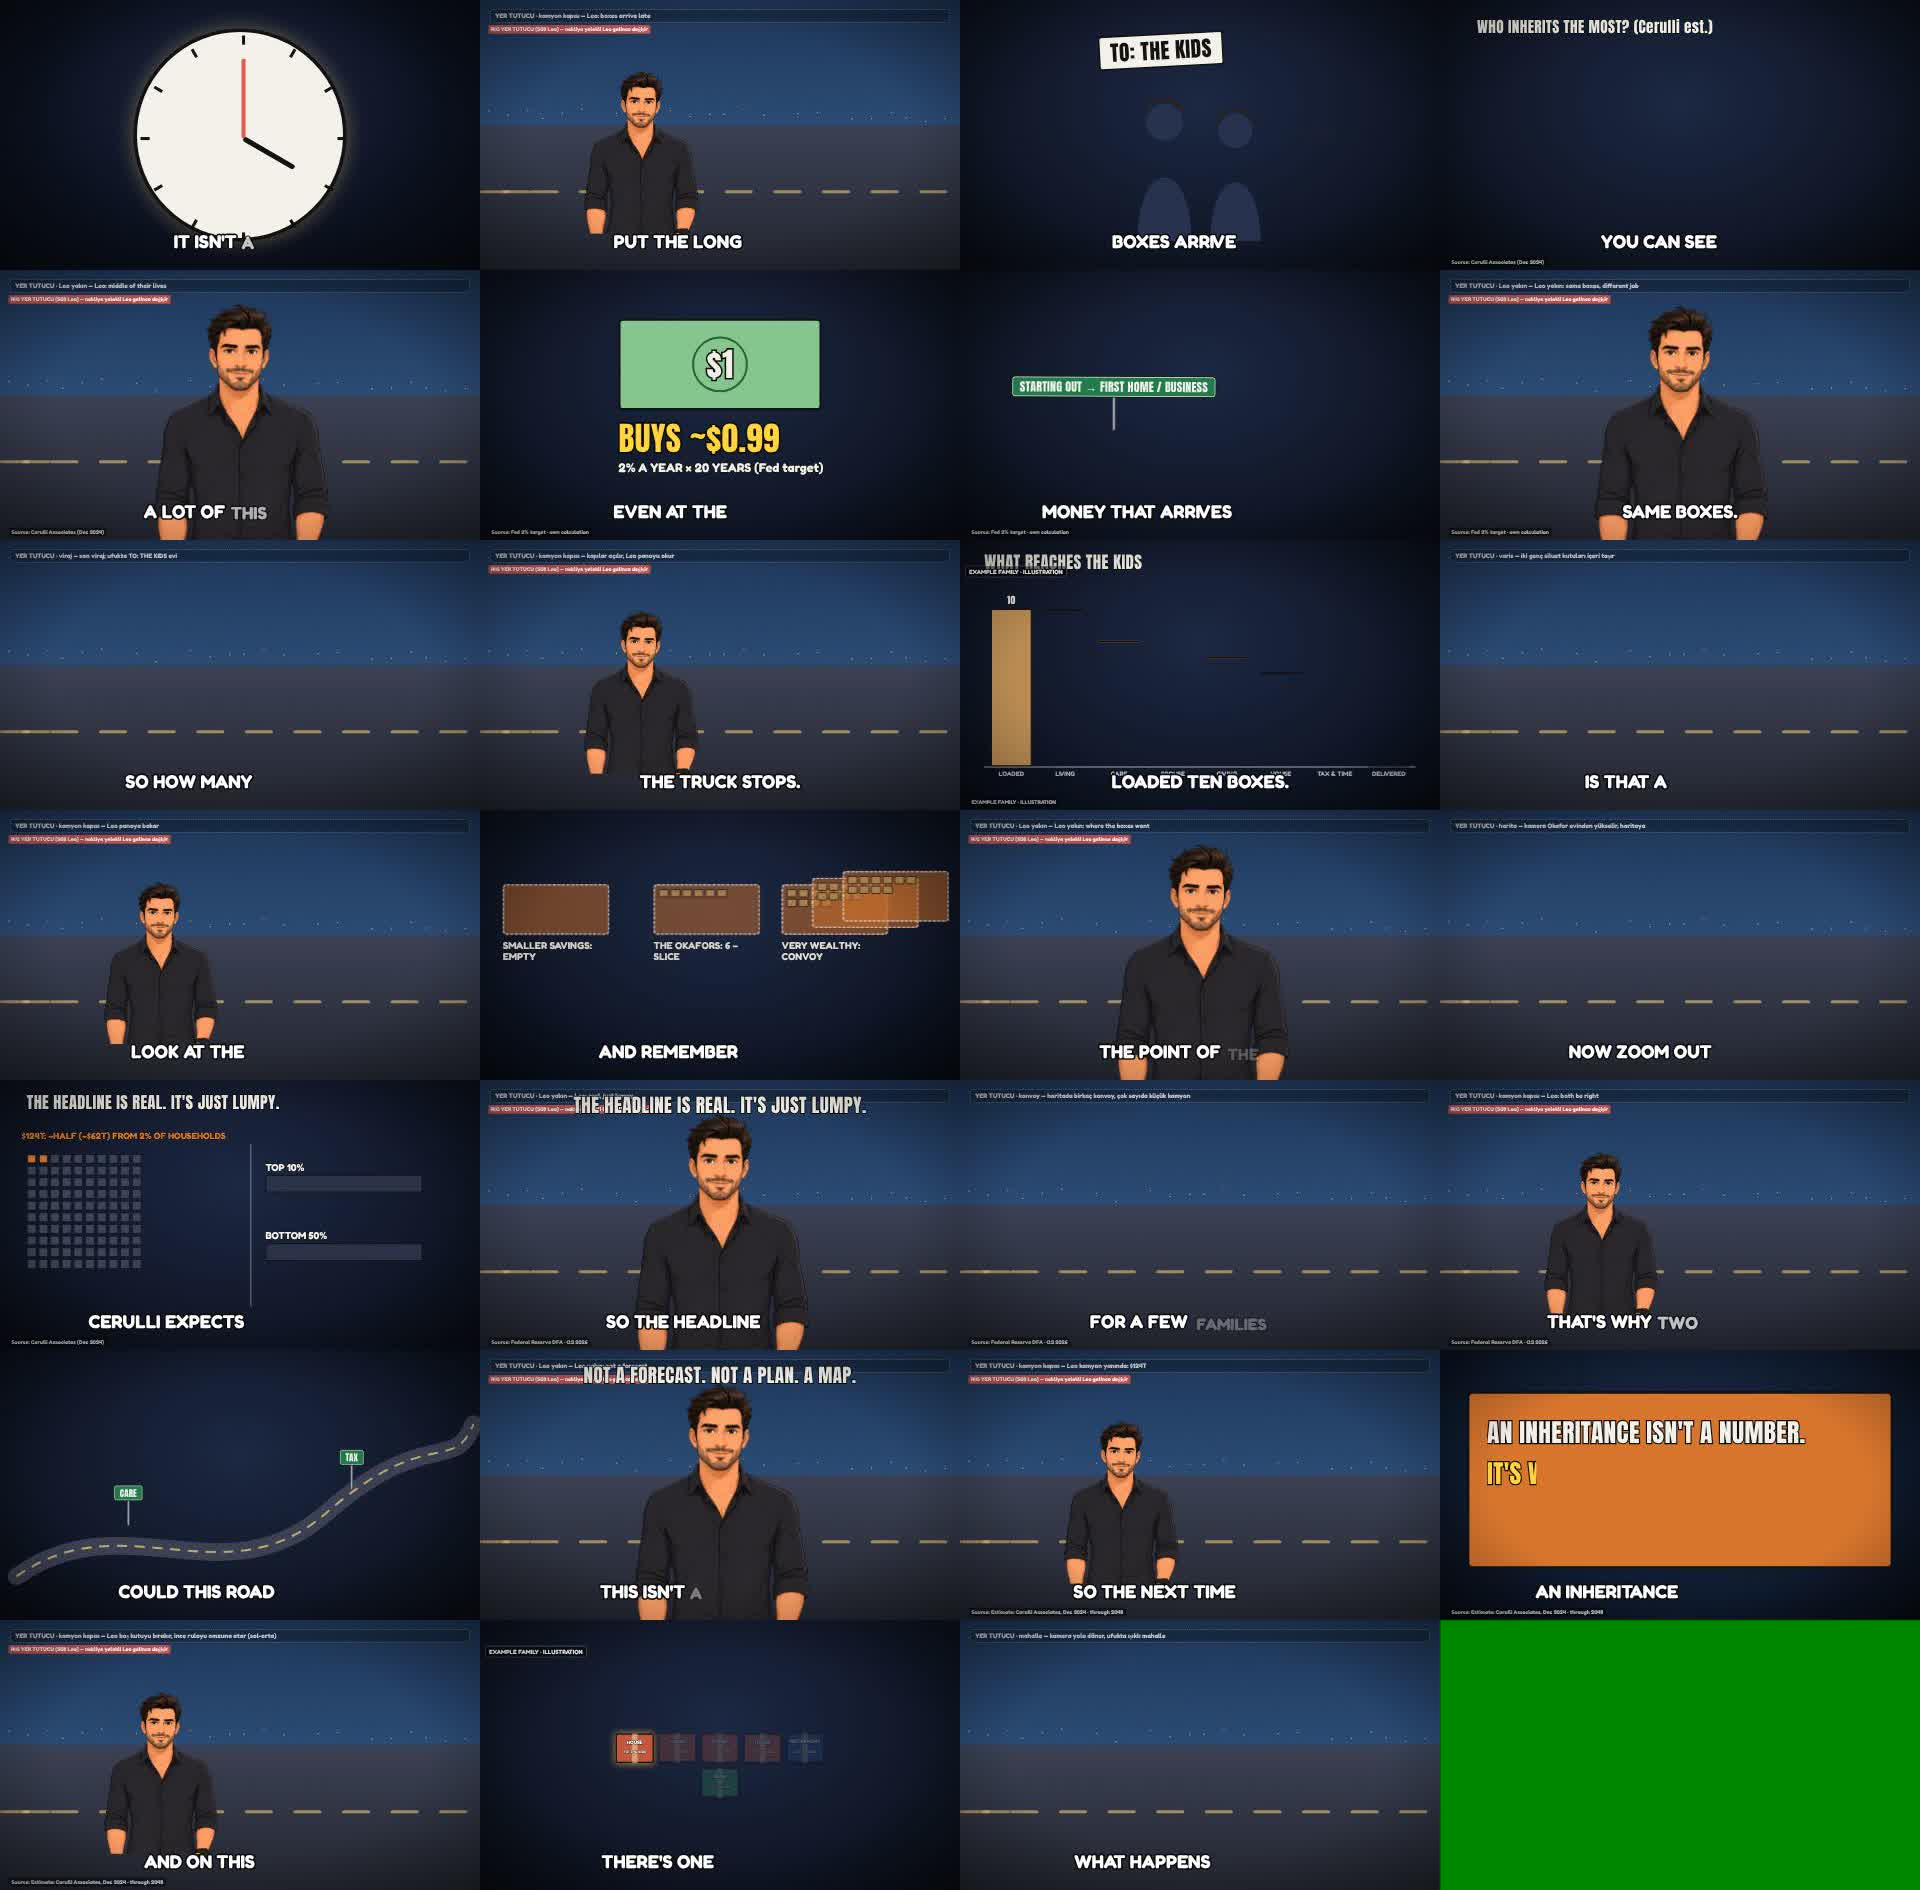
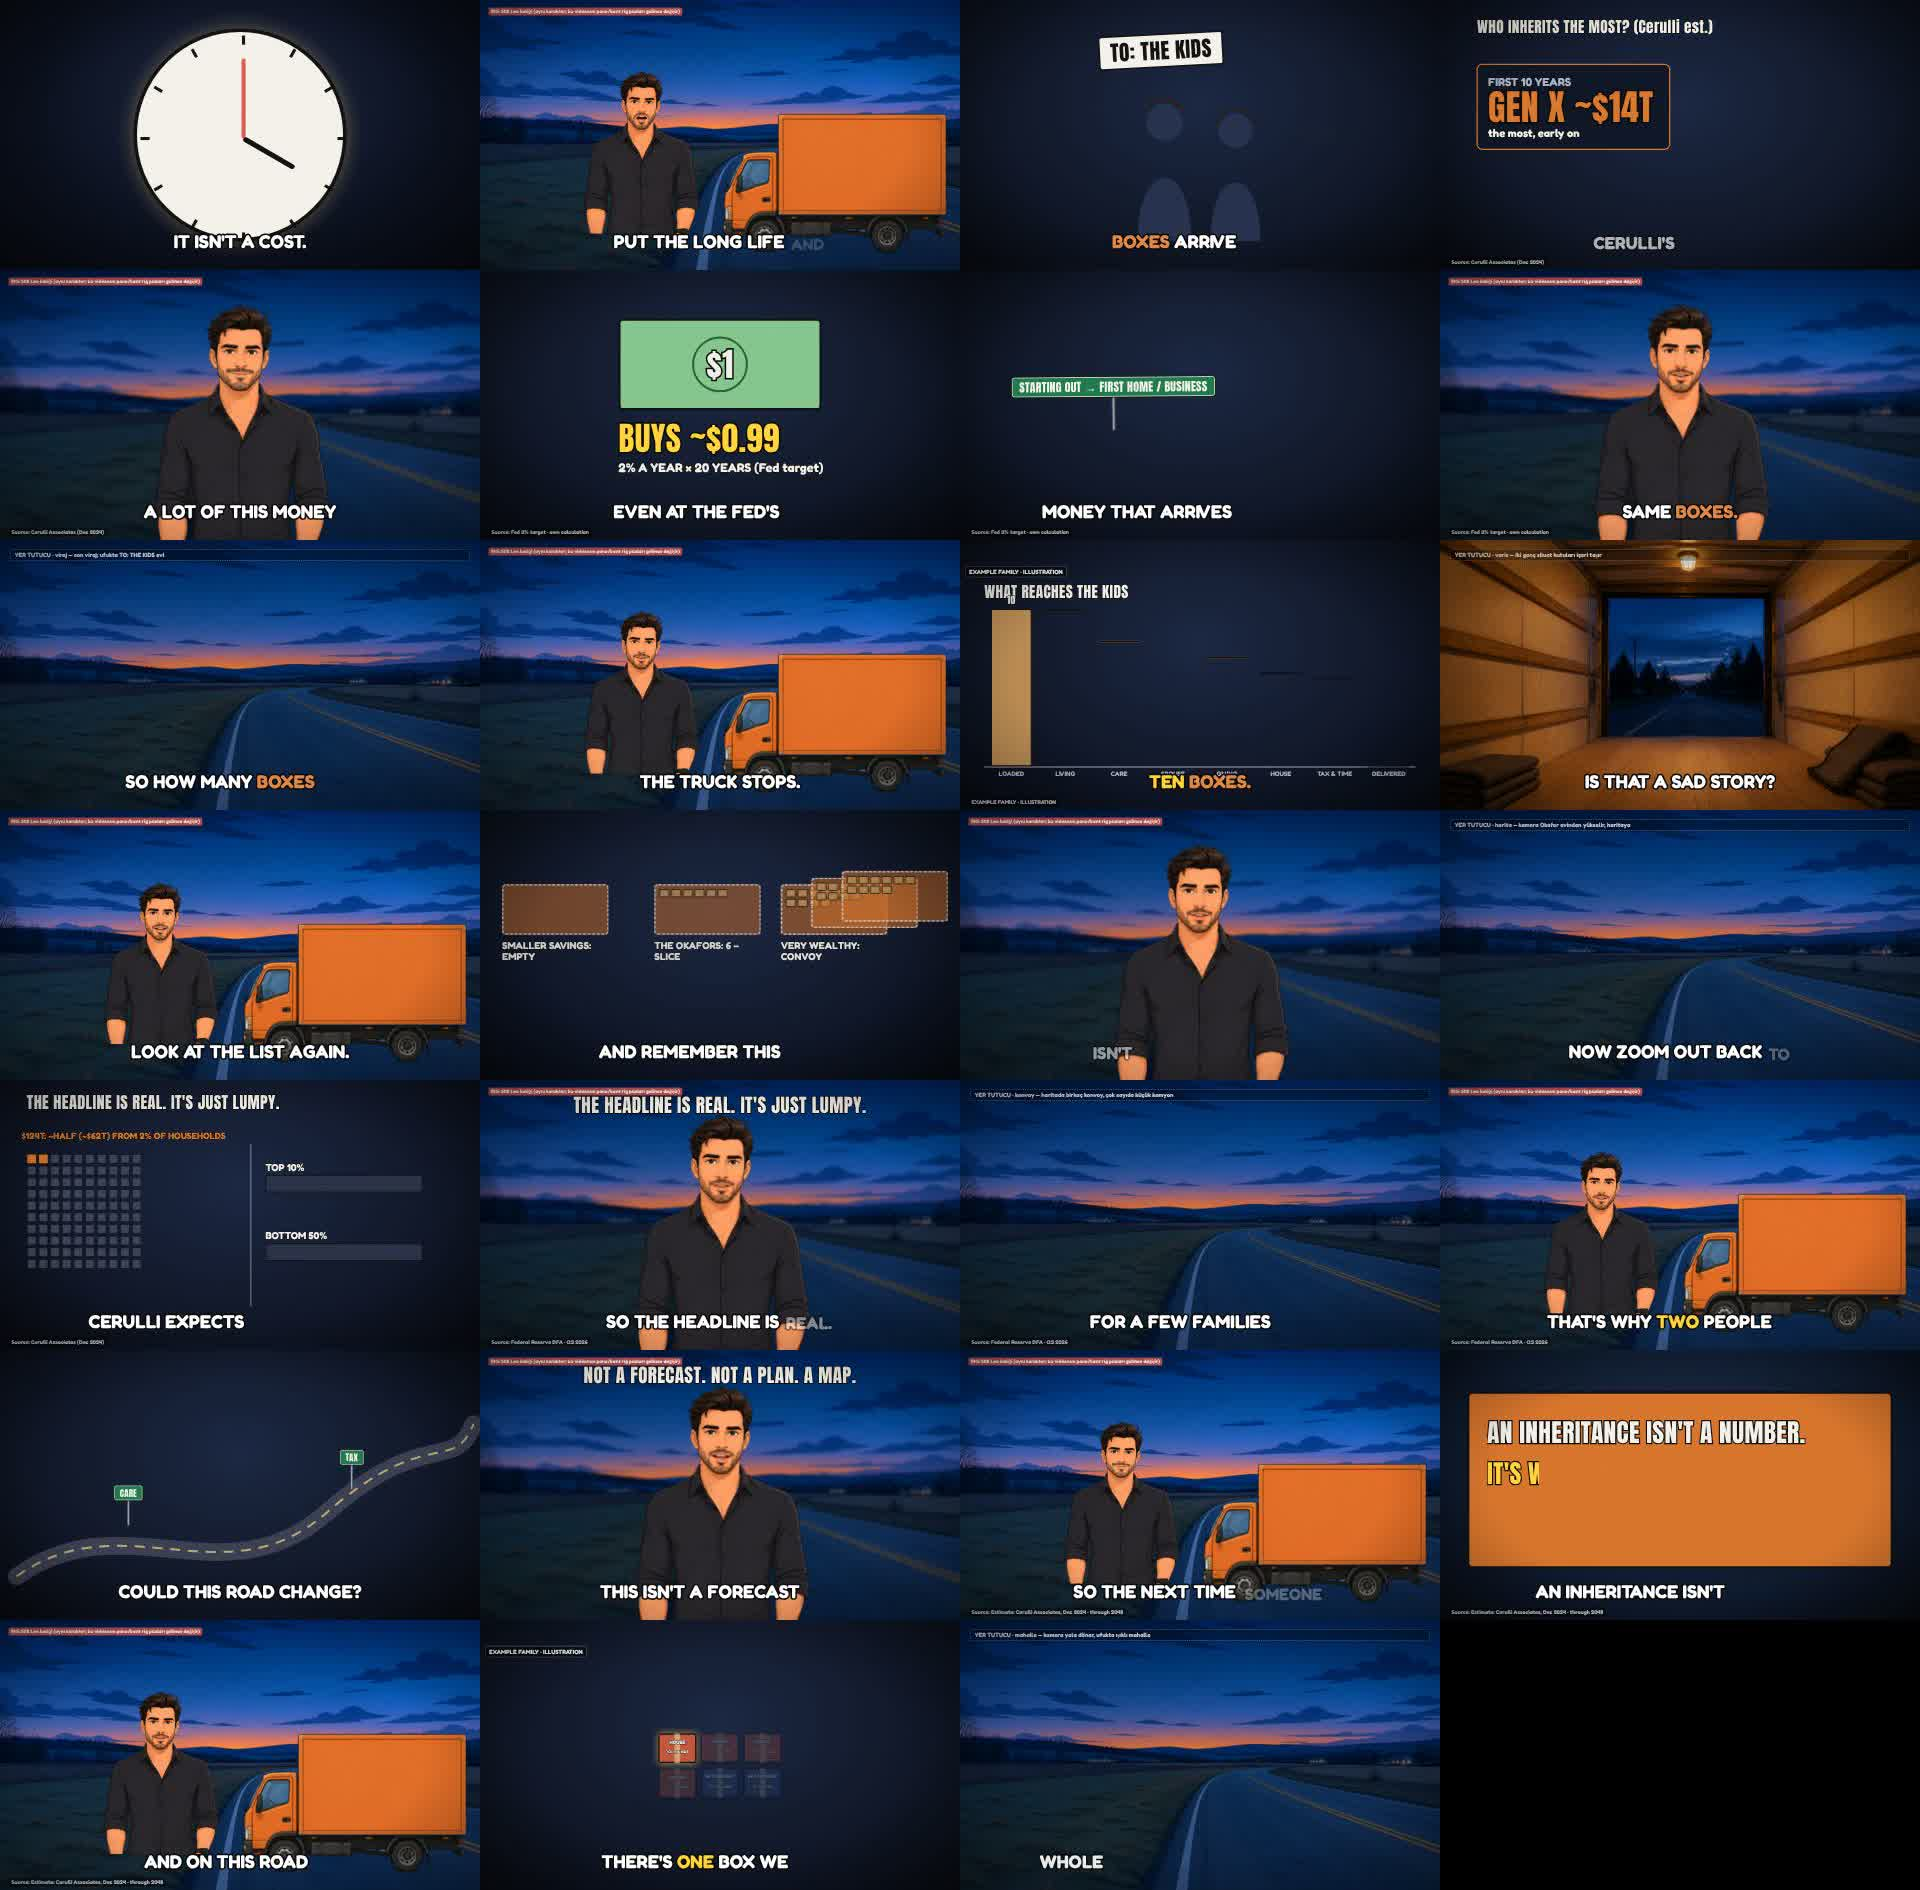
miras-sizintilari: animasyon-yonetmeni ara kayıt — metin v1.1 görselleri (R28, estate/income, sliver), gerçek kesikler, ABONE alanı boş
Claude-Session: https://claude.ai/code/session_019bCNGEBBQaepmiQNuPNZwX

diff --git a/video/src/videolar/miras-sizintilari/grafik.tsx b/video/src/videolar/miras-sizintilari/grafik.tsx
@@ -193,8 +193,8 @@ export type PanoSatir = { deger?: string; an?: number; renk?: string; cizgi?: nu
 export const Pano: React.FC<{ t0: number; satir: PanoSatir[]; alt?: { metin: string; an: number; renk?: string }; kumSaati?: number; isimAn?: number[] }> = ({ t0, satir, alt, kumSaati, isimAn }) => {
   const t = useT();
   const D = useDikey();
-  const W = D ? 860 : 820, H = D ? 1040 : 860;
-  const X = D ? 110 : 550, Y = D ? 330 : 170;
+  const W = D ? 860 : 820, H = D ? 1080 : 920;
+  const X = D ? 110 : 380, Y = D ? 330 : 170; // 16:9 sol-orta: sağ alt (ABONE alanı x>1170) boş kalır
   const p = gir(t, t0, 0.3);
   return (
     <div style={{ position: "absolute", left: X, top: Y, width: W, height: H, opacity: p, transformOrigin: "50% 0%", scale: String((D ? 1 : 0.88) * (0.9 + 0.1 * p)), rotate: `${-1.5 + Math.sin(t * 0.8) * 0.4}deg` }}>
@@ -221,7 +221,7 @@ export const Pano: React.FC<{ t0: number; satir: PanoSatir[]; alt?: { metin: str
         );
       })}
       {alt ? (
-        <div style={{ position: "absolute", left: 70, right: 70, bottom: 56, textAlign: "center", ...yaz(D ? 56 : 50, alt.renk ?? "#111"), WebkitTextStroke: alt.renk ? "5px #111" : "0px", opacity: gir(t, alt.an) }}>{alt.metin}</div>
+        <div style={{ position: "absolute", left: 70, right: 70, bottom: 40, textAlign: "center", ...yaz(D ? 52 : 44, alt.renk ?? "#111"), WebkitTextStroke: alt.renk ? "5px #111" : "0px", opacity: gir(t, alt.an) }}>{alt.metin}</div>
       ) : null}
       {kumSaati !== undefined ? <KumSaati an={kumSaati} x={W - 40} y={H - 120} /> : null}
     </div>
@@ -670,7 +670,7 @@ export const Banknot: React.FC<{ t0: number; k: Record<string, number> }> = ({ t
 export const Selale: React.FC<{ t0: number; k: Record<string, number> }> = ({ t0, k }) => {
   const t = useT();
   const D = useDikey();
-  const W = D ? 1000 : 1700, L = D ? 40 : 110, taban = D ? 1380 : 900, U = D ? 82 : 62; // U = 1 kutu yüksekliği
+  const W = D ? 1000 : 1700, L = D ? 40 : 110, taban = D ? 1380 : 900, U = D ? 82 : 54; // U = 1 kutu yüksekliği
   const kolon = ["LOADED", ...DURAK.map((d) => d[0]), "DELIVERED"];
   const cw = W / kolon.length;
   const an = [ka(k, "loaded", t0), ...[1, 2, 3, 4, 5, 6].map((n) => ka(k, `s${n}`, t0 + n)), ka(k, "delivered", t0 + 7)];

diff --git a/video/src/videolar/miras-sizintilari/sahneler.tsx b/video/src/videolar/miras-sizintilari/sahneler.tsx
@@ -48,7 +48,7 @@ const panoDurum = (sid: string, t0: number, k: Record<string, number>) => {
         />
       );
     case "S22":
-      return <Pano t0={t0} satir={[{ ...L, cizgi: ka(k, "living", t0 + 0.5) }, { ...C, cizgi: ka(k, "care", t0 + 1) }, Sp, Gv, {}, { ...d("−0 · SLIVER", t0 + 0.2, "#2fae6a"), cizgi: ka(k, "time", t0 + 1.5) }]} alt={{ metin: "ESTATE TAX −0 · INCOME TAX: A SLIVER", an: t0 + 0.3 }} />;
+      return <Pano t0={t0} satir={[{ ...L, cizgi: ka(k, "living", t0 + 0.5) }, { ...C, cizgi: ka(k, "care", t0 + 1) }, Sp, Gv, {}, { ...d("−0", t0 + 0.2, "#2fae6a"), cizgi: ka(k, "time", t0 + 1.5) }]} alt={{ metin: "ESTATE TAX −0 · INCOME TAX: A SLIVER", an: t0 + 0.3 }} />;
     default:
       return <Pano t0={t0} satir={[L, C, Sp, Gv]} />;
   }
@@ -100,7 +100,7 @@ export const Cekim: React.FC<{ sid: string; leoId?: string; leoCues?: Cue[]; kes
       const yukleme = sid === "S06" && ad.startsWith("10 kutu") ? [ka(k, "four1", t0 + 0.3), ka(k, "four2", t0 + 1), ka(k, "two3", t0 + 1.6)] : undefined;
       return (
         <Zemin t0={t0}>
-          <KutuDizisi t0={t0} kayipOnce={param === "yalniz" ? 4 : Number(param) || 0} yeni={yeniS08} gizle={param === "4" || param === "yalniz"} giris={yukleme} yalniz={param === "yalniz" ? 0 : undefined} />
+          <KutuDizisi t0={t0} kayipOnce={param === "yalniz" ? 4 : Number(param) || 0} yeni={yeniS08} gizle={param === "4" || param === "yalniz"} giris={yukleme} yalniz={param === "yalniz" ? 0 : undefined} cx={param === "yalniz" ? 820 : undefined} />
           {sid === "S19" ? <div style={{ position: "absolute", left: 0, right: 0, top: 120, textAlign: "center", fontFamily: fredoka, fontWeight: 700, fontSize: 64, color: "#f4f1ea", WebkitTextStroke: "7px #0b0b0b", paintOrder: "stroke fill" }}>4 OF 10 BOXES: THE HOUSE</div> : null}
           <OrnekEtiket />
         </Zemin>
